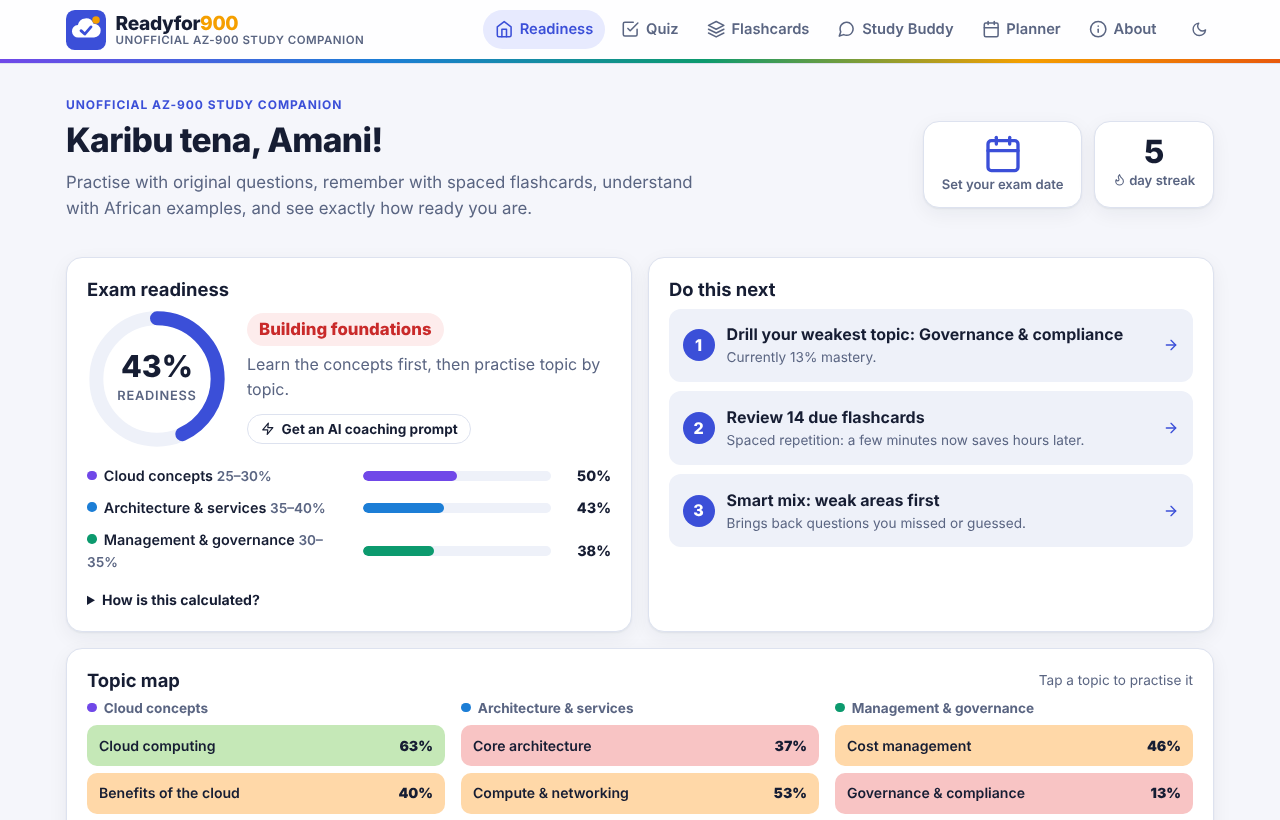
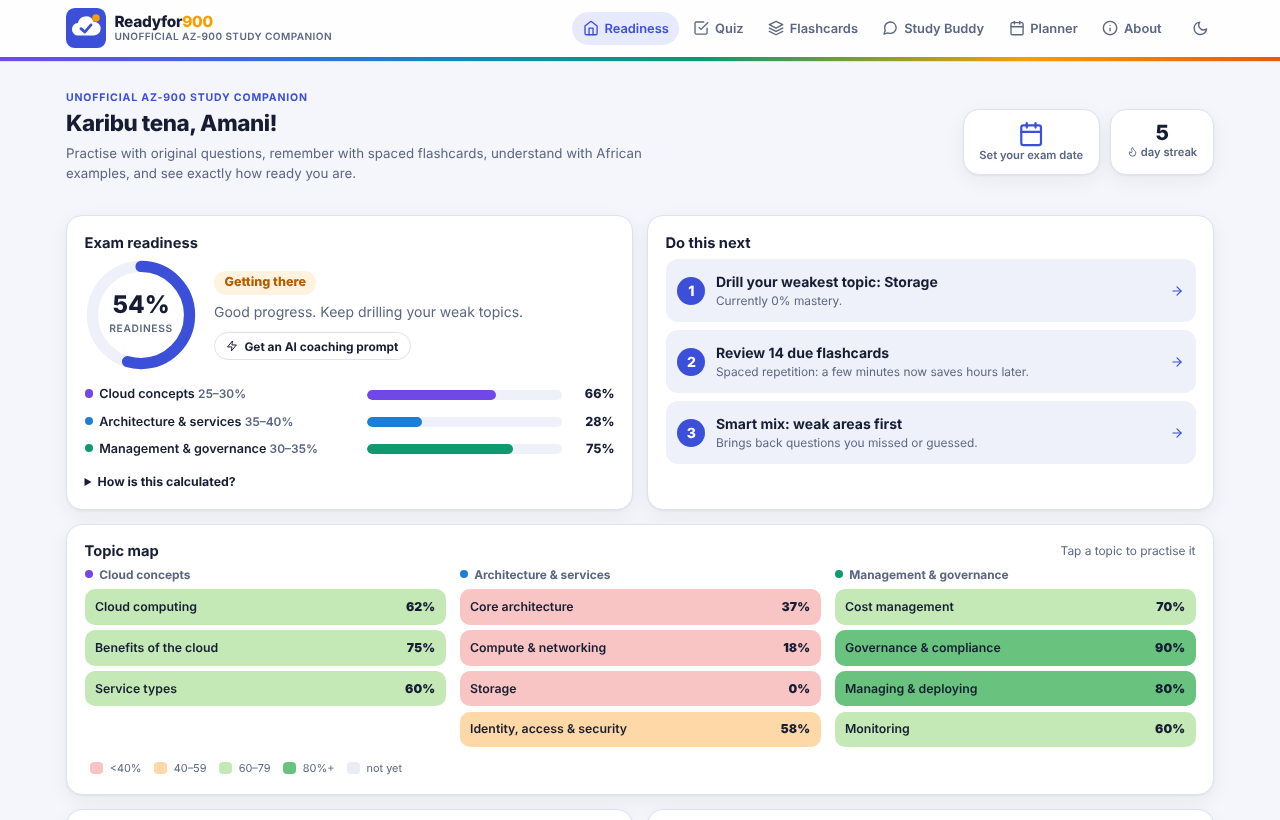
Calmer UI: smaller type, Kiswahili as an optional toggle, AI buttons always visible
Claude-Session: https://claude.ai/code/session_01Xs61P7xGGjkmBAGrsB9gaR

diff --git a/css/styles.css b/css/styles.css
@@ -55,13 +55,13 @@
 }
 
 * { box-sizing: border-box; }
-html { -webkit-text-size-adjust: 100%; }
-body { margin: 0; background: var(--bg); color: var(--text); font: 16px/1.55 var(--font); min-height: 100vh; display: flex; flex-direction: column; }
+html { -webkit-text-size-adjust: 100%; font-size: 14px; }
+body { margin: 0; background: var(--bg); color: var(--text); font: 1rem/1.5 var(--font); min-height: 100vh; display: flex; flex-direction: column; }
 a { color: var(--primary); }
 h1, h2, h3 { line-height: 1.25; margin: 0 0 0.5rem; }
-h1 { font-size: clamp(1.5rem, 3.5vw, 2.1rem); font-weight: 800; letter-spacing: -0.02em; }
-h2 { font-size: 1.15rem; font-weight: 700; }
-h3 { font-size: 1rem; font-weight: 700; }
+h1 { font-size: clamp(1.3rem, 2.4vw, 1.6rem); font-weight: 800; letter-spacing: -0.02em; }
+h2 { font-size: 1.05rem; font-weight: 700; }
+h3 { font-size: 0.95rem; font-weight: 700; }
 p { margin: 0 0 0.75rem; }
 kbd { font: 600 0.75rem var(--font); border: 1px solid var(--border); border-bottom-width: 2px; border-radius: 6px; padding: 0 0.35rem; background: var(--surface); }
 .icon { width: 1.25em; height: 1.25em; fill: none; stroke: currentColor; stroke-width: 2; stroke-linecap: round; stroke-linejoin: round; vertical-align: -0.25em; flex-shrink: 0; }
@@ -83,7 +83,7 @@ kbd { font: 600 0.75rem var(--font); border: 1px solid var(--border); border-bot
 .logo-sun { fill: var(--accent); }
 .logo-check { stroke: var(--primary); }
 .brand-text { display: flex; flex-direction: column; line-height: 1.1; }
-.brand-text strong { font-size: 1.2rem; font-weight: 800; letter-spacing: -0.02em; }
+.brand-text strong { font-size: 1.1rem; font-weight: 800; letter-spacing: -0.02em; }
 .brand-text strong span { color: var(--accent); }
 .brand-text small { font-size: 0.72rem; color: var(--muted); font-weight: 600; text-transform: uppercase; letter-spacing: 0.04em; }
 .nav { display: flex; gap: 0.25rem; }
@@ -97,7 +97,7 @@ kbd { font: 600 0.75rem var(--font); border: 1px solid var(--border); border-bot
 /* ---------- Layout ---------- */
 main { flex: 1; width: 100%; max-width: 1180px; margin: 0 auto; padding: 1.5rem 16px 6rem; outline: none; }
 .page-head { margin: 0.5rem 0 1.25rem; max-width: 760px; }
-.lead { font-size: 1.05rem; color: var(--muted); }
+.lead { font-size: 0.95rem; color: var(--muted); }
 .eyebrow { text-transform: uppercase; letter-spacing: 0.08em; font-size: 0.75rem; font-weight: 700; color: var(--primary); margin-bottom: 0.25rem; }
 .grid { display: grid; gap: 1rem; grid-template-columns: repeat(2, minmax(0, 1fr)); }
 .grid.two { grid-template-columns: repeat(2, minmax(0, 1fr)); }
@@ -149,16 +149,16 @@ input[type="checkbox"] { accent-color: var(--primary); width: 1.1rem; height: 1.
 .hero { display: flex; justify-content: space-between; align-items: center; gap: 1.5rem; margin: 0.5rem 0 1.5rem; flex-wrap: wrap; }
 .hero > div:first-child { max-width: 640px; }
 .hero-side { display: flex; gap: 0.75rem; }
-.countdown { background: var(--surface); border: 1px solid var(--border); border-radius: var(--radius); padding: 0.75rem 1.1rem; display: flex; flex-direction: column; align-items: center; min-width: 120px; text-align: center; font-size: 0.82rem; font-weight: 600; color: var(--muted); box-shadow: var(--shadow); text-decoration: none; }
-.countdown .big { font-size: 2rem; font-weight: 800; color: var(--text); line-height: 1.1; }
+.countdown { background: var(--surface); border: 1px solid var(--border); border-radius: var(--radius); padding: 0.75rem 1.1rem; display: flex; flex-direction: column; align-items: center; min-width: 104px; text-align: center; font-size: 0.8rem; font-weight: 600; color: var(--muted); box-shadow: var(--shadow); text-decoration: none; }
+.countdown .big { font-size: 1.5rem; font-weight: 800; color: var(--text); line-height: 1.1; }
 .countdown.link .big { color: var(--primary); }
 .readiness-body { display: flex; gap: 1.25rem; align-items: center; margin-bottom: 1rem; }
-.ring { width: 140px; height: 140px; flex-shrink: 0; }
+.ring { width: 112px; height: 112px; flex-shrink: 0; }
 .ring-bg { fill: none; stroke: var(--surface-2); stroke-width: 12; }
 .ring-fg { fill: none; stroke: var(--primary); stroke-width: 12; stroke-linecap: round; transform: rotate(-90deg); transform-origin: 60px 60px; transition: stroke-dashoffset 0.8s ease; }
 .ring-num { font: 800 26px var(--font); fill: var(--text); text-anchor: middle; }
 .ring-sub { font: 600 11px var(--font); fill: var(--muted); text-anchor: middle; text-transform: uppercase; letter-spacing: 0.06em; }
-.status { display: inline-block; font-weight: 800; font-size: 1.05rem; padding: 0.2rem 0.75rem; border-radius: 999px; margin-bottom: 0.4rem; }
+.status { display: inline-block; font-weight: 800; font-size: 0.9rem; padding: 0.2rem 0.75rem; border-radius: 999px; margin-bottom: 0.4rem; }
 .status-start { background: var(--surface-2); color: var(--muted); }
 .status-building { background: var(--bad-soft); color: var(--bad); }
 .status-getting { background: var(--warn-soft); color: var(--warn); }
@@ -190,7 +190,7 @@ input[type="checkbox"] { accent-color: var(--primary); width: 1.1rem; height: 1.
 .heat-key { display: inline-block; width: 0.9rem; height: 0.9rem; border-radius: 4px; margin-left: 0.4rem; }
 .calib { display: grid; grid-template-columns: 1fr 1fr; gap: 0.5rem; }
 .calib .c { border-radius: 12px; padding: 0.75rem; display: flex; flex-direction: column; }
-.calib .c strong { font-size: 1.6rem; font-weight: 800; line-height: 1.1; }
+.calib .c strong { font-size: 1.25rem; font-weight: 800; line-height: 1.1; }
 .calib .c span { font-weight: 700; font-size: 0.85rem; }
 .calib .c em { font-style: normal; font-size: 0.78rem; opacity: 0.85; }
 .calib .good { background: var(--good-soft); color: var(--good); }
@@ -200,7 +200,7 @@ input[type="checkbox"] { accent-color: var(--primary); width: 1.1rem; height: 1.
 .calib.mini { max-width: 420px; margin: 0 auto 1rem; }
 .stats { display: grid; grid-template-columns: 1fr 1fr; gap: 0.75rem; margin-bottom: 0.75rem; }
 .stats div { background: var(--surface-2); border-radius: 12px; padding: 0.75rem; }
-.stats strong { display: block; font-size: 1.5rem; font-weight: 800; }
+.stats strong { display: block; font-size: 1.2rem; font-weight: 800; }
 .stats small { font-size: 0.9rem; color: var(--muted); }
 .stats span { font-size: 0.82rem; color: var(--muted); font-weight: 600; }
 
@@ -226,9 +226,9 @@ input[type="checkbox"] { accent-color: var(--primary); width: 1.1rem; height: 1.
 .progress { height: 8px; background: var(--surface-2); border-radius: 999px; overflow: hidden; margin-bottom: 1rem; }
 .progress span { display: block; height: 100%; background: linear-gradient(90deg, var(--primary), var(--accent)); border-radius: 999px; transition: width 0.4s ease; }
 .q-meta { display: flex; flex-wrap: wrap; gap: 0.5rem; align-items: center; margin-bottom: 0.75rem; }
-.q-text { font-size: clamp(1.15rem, 2.6vw, 1.4rem); font-weight: 700; letter-spacing: -0.01em; margin-bottom: 1.1rem; }
+.q-text { font-size: clamp(1.05rem, 1.8vw, 1.15rem); font-weight: 700; letter-spacing: -0.01em; margin-bottom: 1.1rem; }
 .options { display: grid; gap: 0.6rem; }
-.option { display: flex; align-items: flex-start; gap: 0.75rem; text-align: left; width: 100%; padding: 0.85rem 1rem; border-radius: 12px; border: 2px solid var(--border); background: var(--surface); color: var(--text); font: 500 1rem var(--font); cursor: pointer; transition: border-color 0.12s, background 0.12s; }
+.option { display: flex; align-items: flex-start; gap: 0.75rem; text-align: left; width: 100%; padding: 0.85rem 1rem; border-radius: 12px; border: 2px solid var(--border); background: var(--surface); color: var(--text); font: 500 0.95rem var(--font); cursor: pointer; transition: border-color 0.12s, background 0.12s; }
 .option:hover:not(:disabled) { border-color: var(--primary); }
 .option .letter { flex-shrink: 0; width: 1.8rem; height: 1.8rem; border-radius: 8px; display: grid; place-items: center; background: var(--surface-2); font-weight: 800; font-size: 0.85rem; }
 .option.selected { border-color: var(--primary); background: var(--primary-soft); }
@@ -245,7 +245,7 @@ input[type="checkbox"] { accent-color: var(--primary); width: 1.1rem; height: 1.
 .feedback.good { background: var(--good-soft); border-color: color-mix(in srgb, var(--good) 40%, transparent); }
 .feedback.bad { background: var(--bad-soft); border-color: color-mix(in srgb, var(--bad) 40%, transparent); }
 .fb-head { display: flex; align-items: center; gap: 0.5rem; flex-wrap: wrap; margin-bottom: 0.5rem; }
-.fb-head h2 { margin: 0; font-size: 1.25rem; }
+.fb-head h2 { margin: 0; font-size: 1.05rem; }
 .feedback.good .fb-head > .icon { color: var(--good); width: 1.6em; height: 1.6em; }
 .feedback.bad .fb-head > .icon { color: var(--bad); width: 1.6em; height: 1.6em; }
 .feedback h3 { font-size: 0.9rem; margin-top: 0.75rem; }
@@ -263,7 +263,7 @@ input[type="checkbox"] { accent-color: var(--primary); width: 1.1rem; height: 1.
 .summary .domains { text-align: left; max-width: 560px; margin: 0 auto; }
 .summary .btn-row { justify-content: center; }
 .score { display: flex; align-items: center; justify-content: center; gap: 1rem; margin: 0.5rem 0; }
-.score .big { font-size: 3.2rem; font-weight: 800; line-height: 1; }
+.score .big { font-size: 2.4rem; font-weight: 800; line-height: 1; }
 .score small { font-size: 1.4rem; color: var(--muted); }
 .review { display: grid; gap: 0.6rem; }
 .review-item { padding: 0.9rem 1.1rem; }
@@ -275,20 +275,20 @@ input[type="checkbox"] { accent-color: var(--primary); width: 1.1rem; height: 1.
 /* ---------- Flashcards ---------- */
 .boxes { display: grid; grid-template-columns: repeat(6, minmax(0, 1fr)); gap: 0.6rem; align-items: end; }
 .box { text-align: center; display: flex; flex-direction: column; align-items: center; gap: 0.2rem; }
-.box-bar { width: 100%; height: 90px; background: var(--surface-2); border-radius: 10px; display: flex; align-items: flex-end; overflow: hidden; }
+.box-bar { width: 100%; height: 70px; background: var(--surface-2); border-radius: 10px; display: flex; align-items: flex-end; overflow: hidden; }
 .box-bar span { display: block; width: 100%; background: var(--primary); border-radius: 10px 10px 0 0; transition: height 0.5s; min-height: 3px; }
 .b0 .box-bar span { background: var(--muted); }
 .b1 .box-bar span { background: var(--bad); } .b2 .box-bar span { background: var(--warn); } .b3 .box-bar span { background: var(--d2); } .b4 .box-bar span { background: var(--d3); } .b5 .box-bar span { background: var(--good); }
 .box strong { font-size: 1.15rem; }
 .box small { font-size: 0.7rem; color: var(--muted); font-weight: 600; line-height: 1.2; }
-.flip { perspective: 1400px; display: grid; min-height: 340px; cursor: pointer; margin-bottom: 0.5rem; outline: none; }
+.flip { perspective: 1400px; display: grid; min-height: 280px; cursor: pointer; margin-bottom: 0.5rem; outline: none; }
 .flip:focus-visible .face { outline: 3px solid var(--accent); }
 .face { grid-area: 1 / 1; backface-visibility: hidden; -webkit-backface-visibility: hidden; transition: transform 0.5s cubic-bezier(0.2, 0.7, 0.2, 1); display: flex; flex-direction: column; justify-content: center; align-items: center; text-align: center; gap: 0.75rem; padding: 2rem 1.5rem; }
 .face.back { transform: rotateY(180deg); }
 .flip.flipped .front { transform: rotateY(-180deg); }
 .flip.flipped .back { transform: rotateY(0); }
-.front h1 { font-size: clamp(1.6rem, 5vw, 2.4rem); }
-.answer { font-size: 1.15rem; font-weight: 600; max-width: 620px; }
+.front h1 { font-size: clamp(1.35rem, 3.5vw, 1.8rem); }
+.answer { font-size: 1rem; font-weight: 600; max-width: 620px; }
 .mini-sections { text-align: left; font-size: 0.92rem; display: grid; gap: 0.5rem; max-width: 620px; }
 .mini-sections p { background: var(--surface-2); padding: 0.6rem 0.8rem; border-radius: 10px; margin: 0; }
 
@@ -301,30 +301,36 @@ input[type="checkbox"] { accent-color: var(--primary); width: 1.1rem; height: 1.
 .buddy-list li button.active { background: var(--primary-soft); color: var(--primary); }
 .search { display: flex; align-items: center; gap: 0.4rem; border: 1px solid var(--border); border-radius: 10px; padding: 0 0.6rem; color: var(--muted); }
 .search input { border: 0; padding: 0.55rem 0; flex: 1; min-width: 0; background: transparent; outline: none; }
-.concept-title { font-size: clamp(1.4rem, 3vw, 1.9rem); font-weight: 800; }
+.concept-title { font-size: clamp(1.2rem, 2.2vw, 1.45rem); font-weight: 800; }
 .sections { display: grid; grid-template-columns: 1fr 1fr; gap: 0.75rem; margin: 1rem 0; }
 .sections section { background: var(--surface-2); border-radius: 12px; padding: 0.85rem 1rem; }
 .sections h3 { font-size: 0.85rem; text-transform: uppercase; letter-spacing: 0.05em; color: var(--muted); display: flex; align-items: center; gap: 0.35rem; }
 .sections p { margin: 0; }
 .sections .africa { background: var(--warn-soft); }
 .sections .sw { background: var(--good-soft); }
-.sections .tip { background: var(--info-soft); }
-.sections .icon-btn { margin-left: auto; padding: 0.2rem; }
+.sections .tip { background: var(--info-soft); grid-column: 1 / -1; }
+.sections .icon-btn { padding: 0.2rem; }
+.h3-tools { margin-left: auto; display: inline-flex; align-items: center; gap: 0.25rem; text-transform: none; letter-spacing: 0; }
+.sw-toggle { display: inline-flex; align-items: center; gap: 0.3rem; font: 700 0.75rem var(--font); padding: 0.2rem 0.6rem; border-radius: 999px; border: 1px solid var(--border); background: var(--surface); color: var(--muted); cursor: pointer; }
+.sw-toggle:hover { border-color: var(--primary); color: var(--primary); }
+.sw-toggle[aria-pressed="true"] { background: var(--good-soft); border-color: var(--good); color: var(--good); }
+.face .sw-toggle { margin-top: 0.25rem; }
 .ask { border: 1px dashed var(--primary); background: var(--primary-soft); border-radius: 12px; padding: 1rem; margin-top: 1rem; }
 .ask h3 { display: flex; align-items: center; gap: 0.4rem; color: var(--primary); }
 .ask .btn-row { margin-top: 0.5rem; }
 .ask .btn.ghost { background: var(--surface); }
 
 /* ---------- Prompt dialog ---------- */
-dialog { border: 0; border-radius: 18px; padding: 0; width: min(760px, calc(100vw - 32px)); max-height: calc(100vh - 48px); background: var(--surface); color: var(--text); box-shadow: 0 20px 60px rgba(0, 0, 0, 0.35); }
+dialog { border: 0; border-radius: 18px; padding: 0; overflow: auto; width: min(760px, calc(100vw - 32px)); max-height: calc(100vh - 48px); background: var(--surface); color: var(--text); box-shadow: 0 20px 60px rgba(0, 0, 0, 0.35); }
 dialog::backdrop { background: rgba(10, 14, 30, 0.55); backdrop-filter: blur(2px); }
-.dialog-inner { padding: 1.25rem; }
+.dialog-inner { padding: 1.25rem 1.25rem 0; }
+.dialog-actions { position: sticky; bottom: 0; display: flex; flex-wrap: wrap; gap: 0.5rem; padding: 0.85rem 0 1.1rem; margin-top: 0.5rem; background: var(--surface); border-top: 1px solid var(--border); }
 .prompt-controls { display: grid; grid-template-columns: repeat(3, minmax(0, 1fr)); gap: 0.75rem; }
 .prompt-controls .field { margin-bottom: 0.5rem; }
 .anatomy { display: grid; gap: 0.5rem; margin-top: 0.5rem; }
 .part { border-left: 4px solid var(--primary); background: var(--surface-2); border-radius: 0 10px 10px 0; padding: 0.5rem 0.75rem; }
 .part-label { font-size: 0.72rem; font-weight: 800; text-transform: uppercase; letter-spacing: 0.08em; }
-.part pre { margin: 0.2rem 0 0; white-space: pre-wrap; word-break: break-word; font: 500 0.85rem/1.5 ui-monospace, SFMono-Regular, Menlo, Consolas, monospace; }
+.part pre { margin: 0.2rem 0 0; white-space: pre-wrap; word-break: break-word; font: 500 0.8rem/1.45 ui-monospace, SFMono-Regular, Menlo, Consolas, monospace; }
 .part-role { border-color: var(--d1); } .part-role .part-label { color: var(--d1); }
 .part-context { border-color: var(--d2); } .part-context .part-label { color: var(--d2); }
 .part-task { border-color: var(--accent); } .part-task .part-label { color: var(--warn); }
@@ -374,6 +380,7 @@ dialog::backdrop { background: rgba(10, 14, 30, 0.55); backdrop-filter: blur(2px
   .buddy-list ul { max-height: 240px; }
   .sections { grid-template-columns: minmax(0, 1fr); }
   .prompt-controls { grid-template-columns: minmax(0, 1fr) minmax(0, 1fr); }
+  input, select, textarea { font-size: 16px; } /* stops phones zooming in on focus */
   /* Bottom tab bar on phones. (backdrop-filter would trap the fixed nav inside the header, so drop it here.) */
   .topbar { backdrop-filter: none; -webkit-backdrop-filter: none; background: var(--surface); }
   .nav { position: fixed; bottom: 0; left: 0; right: 0; justify-content: space-around; background: var(--surface); border-top: 1px solid var(--border); padding: 0.35rem 0.25rem calc(0.35rem + env(safe-area-inset-bottom)); z-index: 30; }

diff --git a/js/app.js b/js/app.js
@@ -537,6 +537,11 @@
     actions.go = (el) => { startDeck(el.dataset.mode, $("#deck-topic").value); if (deck.cards.length) cardView(); else toast("No cards here yet."); };
   }
 
+  // Kiswahili is optional: one shared toggle for flashcards and Study Buddy (off by default).
+  let swOn = false;
+  const swButton = () =>
+    `<button class="sw-toggle" data-action="sw" aria-pressed="${swOn}" title="${swOn ? "Show English" : "Translate to Kiswahili"}">${icon("globe", "sm")} ${swOn ? "English" : "Kiswahili"}</button>`;
+
   function cardView() {
     if (deck.i >= deck.cards.length) return deckDone();
     const c = deck.cards[deck.i];
@@ -558,11 +563,11 @@
           <div class="face back card">
             ${topicChip(c.topic)}
             <h2>${esc(c.term)}</h2>
-            <p class="answer">${esc(c.short)}</p>
+            ${swOn ? `<p class="answer" lang="sw">${esc(c.sw)}</p>` : `<p class="answer">${esc(c.short)}</p>`}
             <div class="mini-sections">
               <p><strong>${icon("pin", "sm")} Real life:</strong> ${esc(c.africa)}</p>
-              <p lang="sw"><strong>${icon("globe", "sm")} Kiswahili:</strong> ${esc(c.sw)}</p>
             </div>
+            ${swButton()}
           </div>
         </div>
         <div class="btn-row center ${deck.flipped ? "" : "hidden"}">
@@ -572,6 +577,7 @@
         <p class="muted small center">Keyboard: <kbd>Space</kbd> flip · <kbd>1</kbd> still learning · <kbd>2</kbd> knew it</p>
       </div>`;
     actions.flip = () => { deck.flipped = !deck.flipped; cardView(); };
+    actions.sw = () => { swOn = !swOn; cardView(); };
     actions.rate = (el) => rate(el.dataset.k === "1");
     actions.stop = () => deckDone();
   }
@@ -659,9 +665,10 @@
           <h2 class="concept-title">${esc(c.term)}</h2>
           <p class="answer">${esc(c.short)}</p>
           <div class="sections">
-            <section><h3>In simple words <button class="icon-btn" data-action="say" data-lang="en" data-text="${esc(c.simple)}" aria-label="Read aloud">${icon("speak", "sm")}</button></h3><p>${esc(c.simple)}</p></section>
+            <section${swOn ? ' lang="sw"' : ""}><h3>${swOn ? "Kwa maneno rahisi" : "In simple words"}
+              <span class="h3-tools">${swButton()}<button class="icon-btn" data-action="say" data-lang="${swOn ? "sw" : "en"}" data-text="${esc(swOn ? c.sw : c.simple)}" aria-label="Read aloud">${icon("speak", "sm")}</button></span></h3>
+              <p>${esc(swOn ? c.sw : c.simple)}</p></section>
             <section class="africa"><h3>${icon("pin", "sm")} Like in real life</h3><p>${esc(c.africa)}</p></section>
-            <section class="sw" lang="sw"><h3>${icon("globe", "sm")} Kwa Kiswahili <button class="icon-btn" data-action="say" data-lang="sw" data-text="${esc(c.sw)}" aria-label="Soma kwa sauti">${icon("speak", "sm")}</button></h3><p>${esc(c.sw)}</p></section>
             <section class="tip"><h3>${icon("bulb", "sm")} Exam tip</h3><p>${esc(c.tip)}</p></section>
           </div>
           ${related.length ? `<p class="related">Related: ${related.map((r) => `<button class="chip" data-action="open" data-id="${r.id}">${esc(r.term)}</button>`).join(" ")}</p>` : ""}
@@ -688,6 +695,7 @@
       if (window.innerWidth < 860) $("#b-detail").scrollIntoView({ behavior: "smooth" });
     };
     actions.say = (el) => speak(el.dataset.text, el.dataset.lang);
+    actions.sw = () => { swOn = !swOn; drawDetail(); };
     actions.prompt = (el) => openPrompt({ goal: el.dataset.goal, concept: E.concept(current) });
     drawList();
     drawDetail();
@@ -717,12 +725,12 @@
           <div class="anatomy">
             ${sections.map((s) => `<div class="part part-${s.label.toLowerCase().replace(/\s+/g, "-")}"><span class="part-label">${esc(s.label)}</span><pre>${esc(s.text)}</pre></div>`).join("")}
           </div>
-          <div class="btn-row">
+          <p class="muted small">Always double-check AI answers against Microsoft Learn. AI can be confidently wrong too!</p>
+          <div class="dialog-actions">
             <button type="button" class="btn primary" id="p-copy">${icon("copy", "sm")} Copy prompt</button>
             <a class="btn secondary" target="_blank" rel="noopener" href="https://claude.ai/new?q=${encodeURIComponent(text)}">Open in Claude</a>
-            <a class="btn ghost" target="_blank" rel="noopener" href="https://chatgpt.com/?q=${encodeURIComponent(text)}">Open in ChatGPT</a>
+            <a class="btn secondary" target="_blank" rel="noopener" href="https://chatgpt.com/?q=${encodeURIComponent(text)}">Open in ChatGPT</a>
           </div>
-          <p class="muted small">Always double-check AI answers against Microsoft Learn. AI can be confidently wrong too!</p>
         </form>`;
       $("#p-goal", dlg)?.addEventListener("change", (e) => { state.goal = e.target.value; draw(); });
       $("#p-lang", dlg).addEventListener("change", (e) => { state.language = e.target.value; S.update((s) => (s.settings.language = e.target.value)); draw(); });
